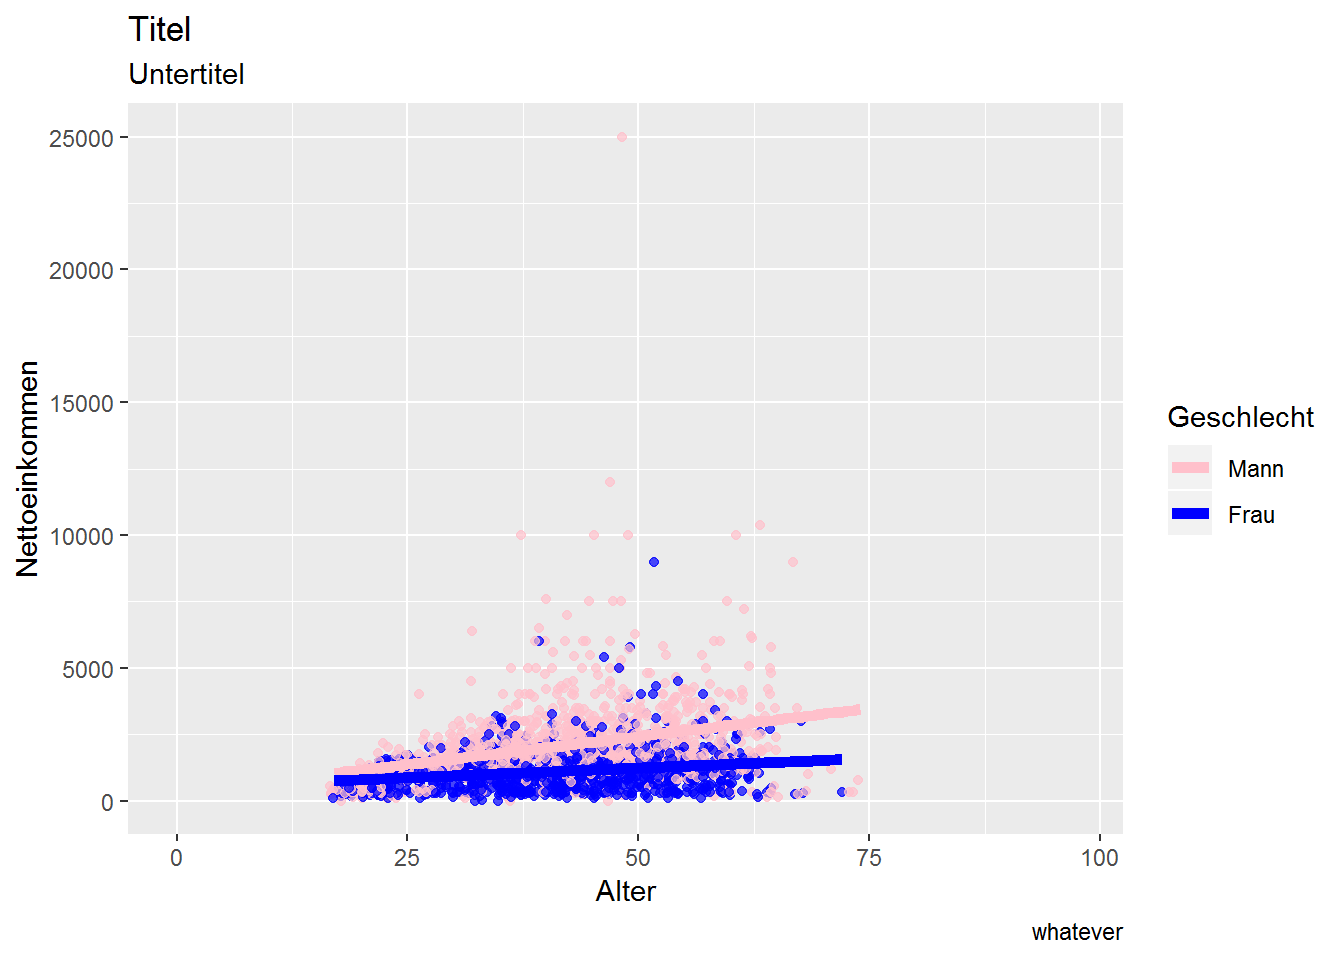
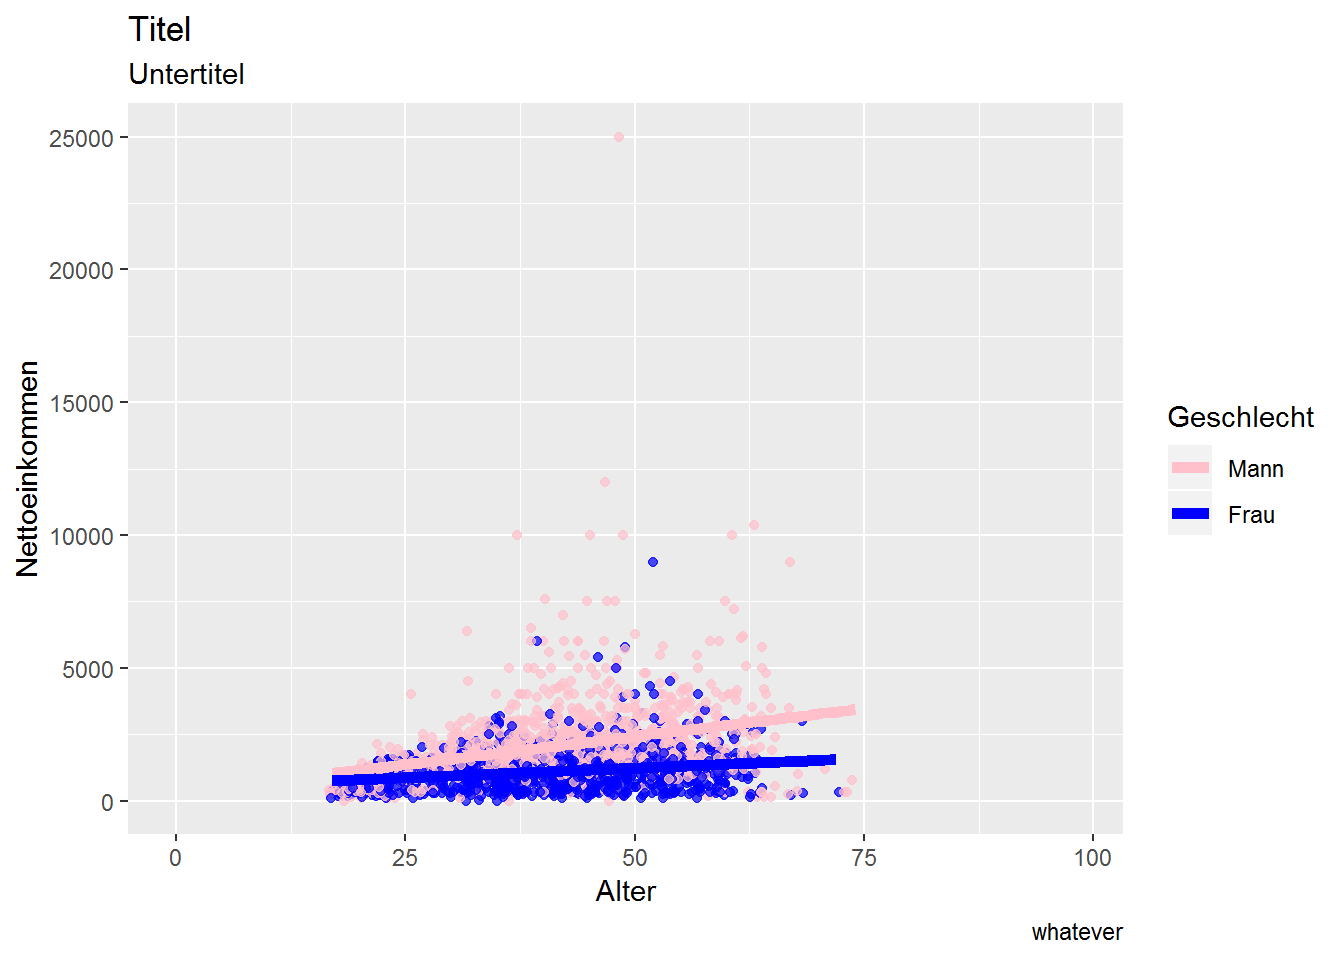
experiment file upload no 2

diff --git a/docs/datamanagement.html b/docs/datamanagement.html
@@ -499,12 +499,12 @@ econ$netinc = recode(econ$tp7602,&quot;-3=NA;-2=NA;-1=NA&quot;)
 econ_data &lt;- econ[,c(&quot;netinc&quot;,&quot;alter&quot;,&quot;sex&quot;,&quot;contract&quot;,&quot;actual&quot;,&quot;trust&quot;,&quot;rely&quot;)]
 head(econ_data)</code></pre>
 <pre><code>##       netinc alter      sex contract actual trust rely
-## 12022     NA    18 weiblich       NA     NA     2    3
-## 2451    1100    36 weiblich       40     40     3    3
-## 3993      NA     4 weiblich       NA     NA    NA   NA
-## 10474     NA    59 männlich       NA     NA     3    2
-## 1919    1200    50 weiblich       37     37     3    1
-## 4612    1685    41 männlich       38     38     2    3</code></pre>
+## 3907      NA    12 männlich       NA     NA    NA   NA
+## 5437      NA    71 männlich       NA     NA     2    3
+## 9377      NA    78 weiblich       NA     NA     4    2
+## 12943     NA     1 weiblich       NA     NA    NA   NA
+## 9184    3000    36 männlich       40     40     2    3
+## 5383    1000    40 weiblich       19     19     4    1</code></pre>
 <pre class="r"><code># Delete NAs
 econ_data &lt;- na.omit(econ_data)
 
@@ -513,8 +513,8 @@ econ_data &lt;- na.omit(econ_data)
 hist(econ$netinc)</code></pre>
 <p><img src="datamanagement_files/figure-html/unnamed-chunk-2-1.png" width="672" /></p>
 <pre class="r"><code>quantile(econ_data$netinc)</code></pre>
-<pre><code>##   0%  25%  50%  75% 100% 
-##    0  810 1349 1950 8000</code></pre>
+<pre><code>##    0%   25%   50%   75%  100% 
+##     0   884  1392  1982 10388</code></pre>
 <pre class="r"><code>econ_data$inc_kat &lt;- NA
 econ_data$inc_kat [econ_data$netinc &lt; quantile(econ_data$netinc)[2]] &lt;- &quot;Q1&quot;
 econ_data$inc_kat [econ_data$netinc &gt;= quantile(econ_data$netinc)[2] &amp; econ_data$netinc &lt; quantile(econ_data$netinc)[3]] &lt;- &quot;Q2&quot;
@@ -524,7 +524,7 @@ econ_data$inc_kat [econ_data$netinc &gt;= quantile(econ_data$netinc)[4] ] &lt;- 
 table(econ_data$inc_kat)</code></pre>
 <pre><code>## 
 ##  Q1  Q2  Q3  Q4 
-## 419 422 419 422</code></pre>
+## 418 418 418 419</code></pre>
 </div>
 <div id="advanced-dm-the-tidyverse" class="section level1">
 <h1><span class="header-section-number">3</span> Advanced DM: The tidyverse</h1>
@@ -538,12 +538,12 @@ table(econ_data$inc_kat)</code></pre>
 
 head(econ_data)</code></pre>
 <pre><code>##   netinc alter      sex contract actual trust rely inc_kat alter_squared
-## 1   1100    36 weiblich     40.0     40     3    3      Q2          1296
-## 2   1200    50 weiblich     37.0     37     3    1      Q2          2500
-## 3   1685    41 männlich     38.0     38     2    3      Q3          1681
-## 4   1280    37 männlich     38.5     40     3    2      Q2          1369
-## 5   1150    47 weiblich     40.0     40     3    2      Q2          2209
-## 6    790    34 weiblich     38.0     38     3    2      Q1          1156</code></pre>
+## 1   3000    36 männlich       40     40     2    3      Q4          1296
+## 2   1000    40 weiblich       19     19     4    1      Q2          1600
+## 3   1200    48 weiblich       40     45     2    3      Q2          2304
+## 4    270    23 männlich       40     40     3    3      Q1           529
+## 5    434    19 weiblich       36     42     2    3      Q1           361
+## 6    930    61 weiblich       20     24     2    3      Q2          3721</code></pre>
 </div>
 <div id="summarise" class="section level2">
 <h2><span class="header-section-number">3.2</span> Summarise</h2>
@@ -552,7 +552,7 @@ head(econ_data)</code></pre>
   summarise(mean = mean(alter,na.rm = T),
             sd = sd(alter,na.rm = T))</code></pre>
 <pre><code>##       mean       sd
-## 1 40.72473 11.54196</code></pre>
+## 1 40.64913 11.62021</code></pre>
 </div>
 <div id="group_by" class="section level2">
 <h2><span class="header-section-number">3.3</span> group_by</h2>
@@ -564,7 +564,7 @@ head(econ_data)</code></pre>
 <pre><code>## # A tibble: 1 x 2
 ##    mean    sd
 ##   &lt;dbl&gt; &lt;dbl&gt;
-## 1  40.7  11.5</code></pre>
+## 1  40.6  11.6</code></pre>
 </div>
 </div>
 

diff --git a/docs/objectsndata.html b/docs/objectsndata.html
@@ -420,6 +420,7 @@ div.tocify {
 </div>
 
 
+<p>Download the script <a href="https://raw.githubusercontent.com/BeSeLuFri/RforISG/master/Files/Course%20Scripts/test1.R">here</a>.</p>
 <hr />
 <div id="file-names" class="section level1">
 <h1><span class="header-section-number">1</span> File names</h1>
